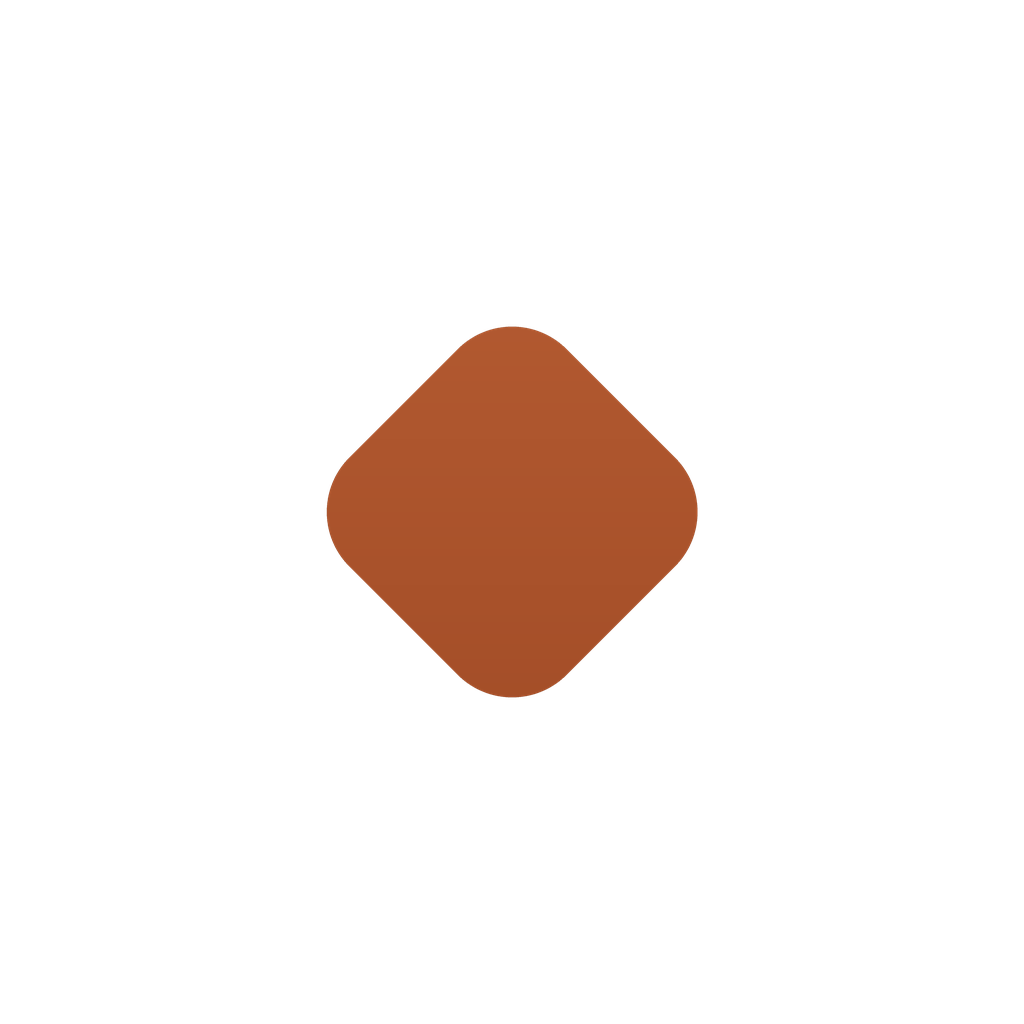
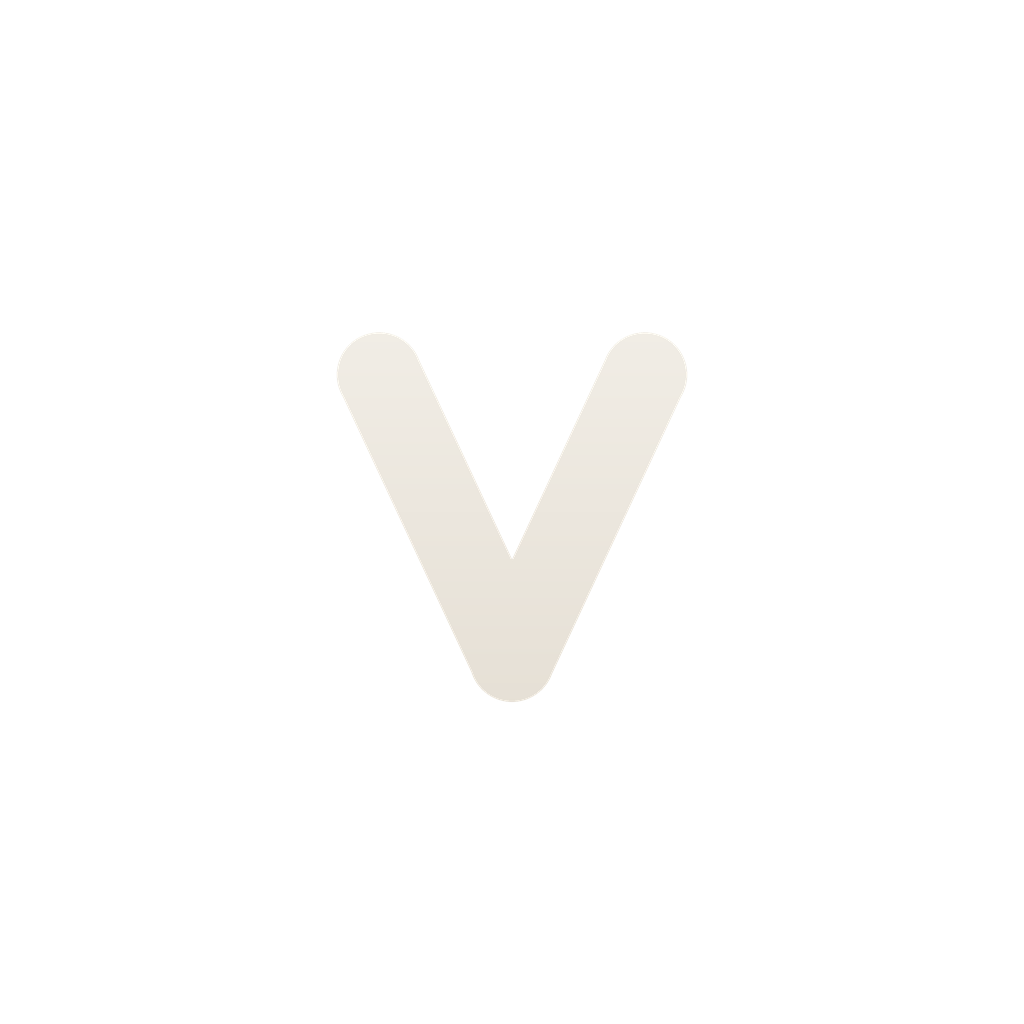
App móvil: nuevo ícono, V de Vertigo en blanco perlado sobre fondo oscuro
También la pantalla de arranque, el ícono adaptable de Android y el favicon.

Changed region(s): [[0.3125, 0.3125, 0.6875, 0.6875]]

diff --git a/movil/tienda/APP-STORE.md b/movil/tienda/APP-STORE.md
@@ -10,7 +10,7 @@ Las claves de la cuenta de demostración están en `tienda/REVISOR.local.txt`
 |---|---|
 | Identificador de la app | `tech.vertigopro.app` (`app.json`) |
 | Versión | 1.0.0; el número de compilación lo lleva EAS solo (`eas.json`, `autoIncrement`) |
-| Ícono 1024×1024 sin transparencia | `assets/icon.png` (rombo de Vertigo Pro; provisional hasta el logo definitivo) |
+| Ícono 1024×1024 sin transparencia | `assets/icon.png`: V de Vertigo en blanco perlado sobre fondo oscuro |
 | Pantalla de inicio clara y oscura | `expo-splash-screen` en `app.json` |
 | Textos de permiso (cámara y fotos) | `expo-image-picker` en `app.json`; micrófono apagado |
 | Cifrado de exportación | `ITSAppUsesNonExemptEncryption: false` (solo HTTPS) |
